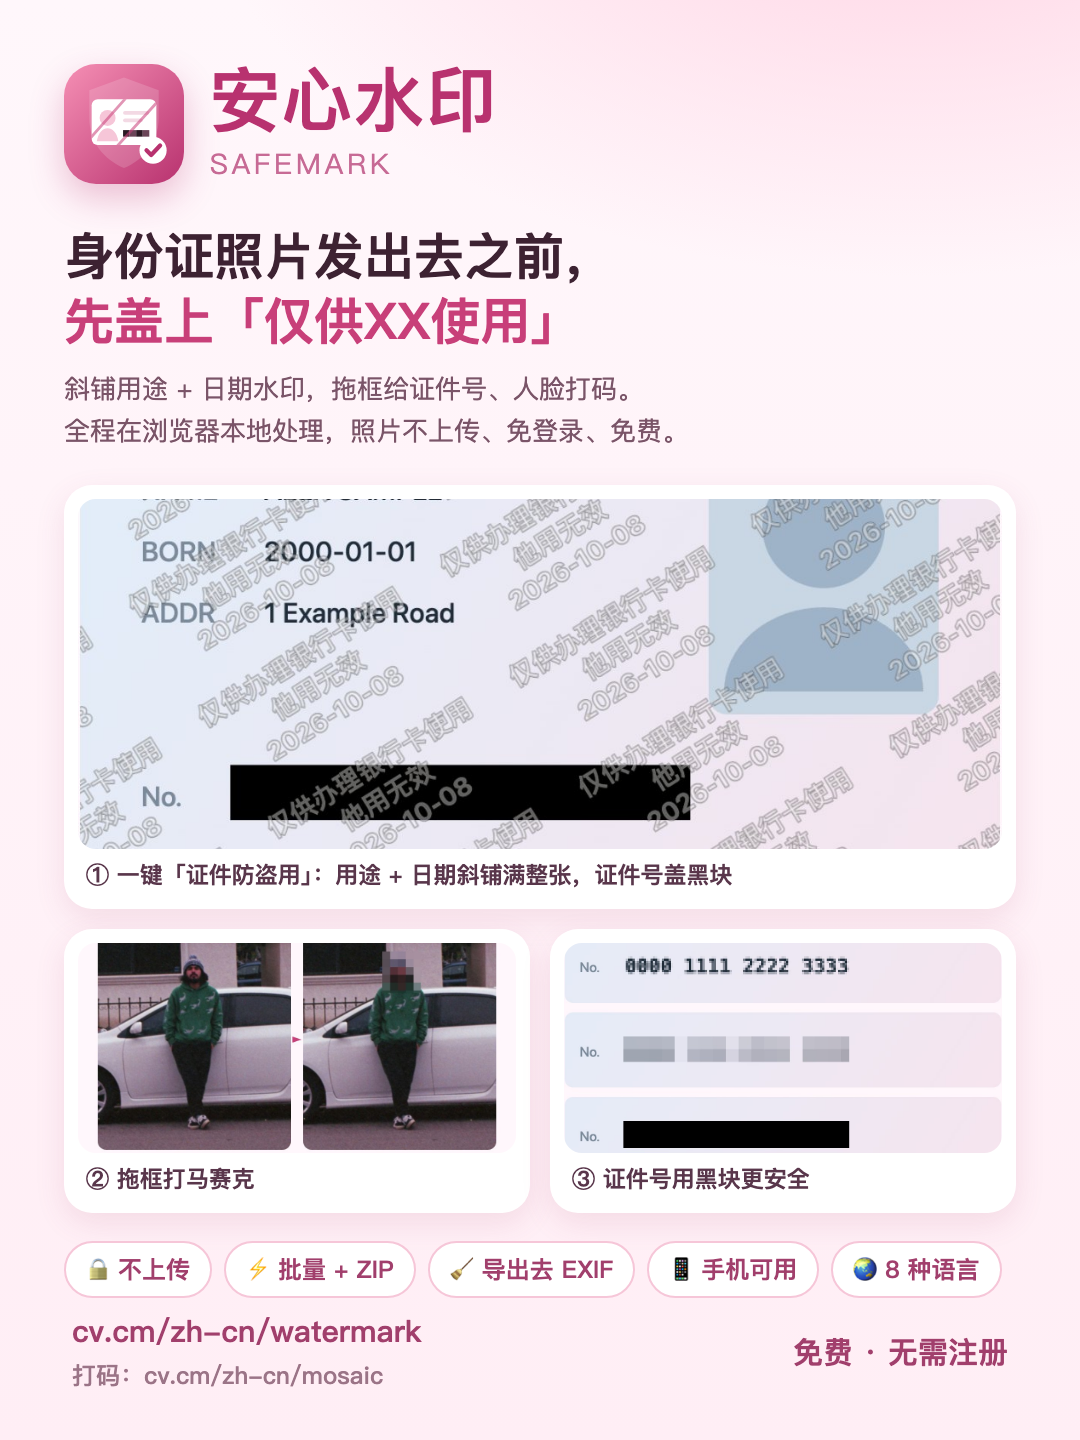
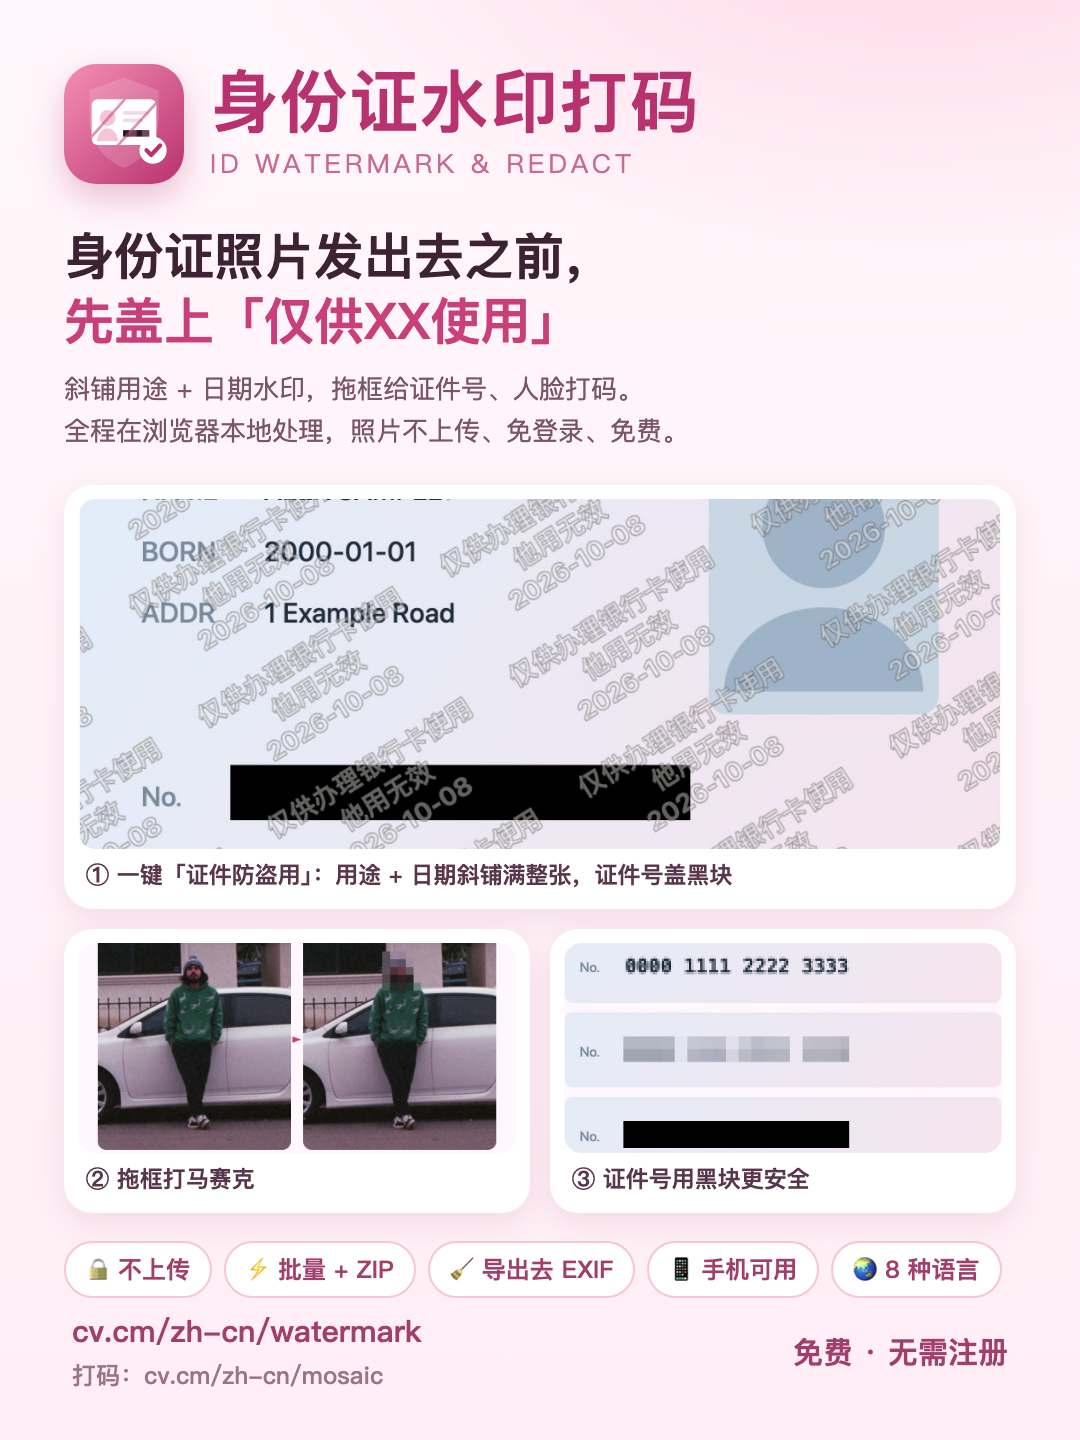
feat: rename to ID Watermark & Redact (身份证水印打码)

Changed region(s): [[0.1833, 0.0312, 0.6417, 0.125]]

diff --git a/docs/index.html b/docs/index.html
@@ -3,7 +3,7 @@
 <head>
 <meta charset="utf-8">
 <meta name="viewport" content="width=device-width, initial-scale=1">
-<title>SafeMark 安心水印 — ID copy watermark & photo mosaic, no upload</title>
+<title>身份证水印打码 · ID Watermark & Redact — ID copy watermark & photo mosaic, no upload</title>
 <meta name="description" content="Watermark ID copies with a tiled for-use-only line and date, pixelate faces or black out ID numbers — in the browser, nothing uploaded. 身份证加水印、图片打马赛克，本地处理不上传。">
 <link rel="icon" href="icon.svg" type="image/svg+xml">
 <link rel="canonical" href="https://cv.cm/en/watermark/">
@@ -21,7 +21,7 @@ h2{color:var(--pink);margin-top:36px}a{color:var(--pink)}
 </style>
 </head>
 <body><main>
-<header><img src="icon.svg" alt=""><div><h1>SafeMark · 安心水印</h1><div>ID copy watermark &amp; photo mosaic — on your device</div></div></header>
+<header><img src="icon.svg" alt=""><div><h1>ID Watermark &amp; Redact · 身份证水印打码</h1><div>ID copy watermark &amp; photo mosaic — on your device</div></div></header>
 <p class="lead">Tile “for [org] use only + date” across an ID copy, black out numbers, pixelate faces. Nothing is uploaded.<br>身份证加「仅供XX使用」水印，拖框打马赛克，本地处理不上传。</p>
 <div class="cta">
 <a href="https://cv.cm/en/watermark/">Watermark tool</a>
@@ -39,5 +39,5 @@ h2{color:var(--pink);margin-top:36px}a{color:var(--pink)}
 <li><a href="https://cv.cm/en/learn/mosaic-photo/">How to pixelate part of a photo</a> · <a href="https://cv.cm/zh-cn/learn/mosaic-photo/">怎么给图片打马赛克</a></li>
 <li><a href="https://cv.cm/en/learn/add-watermark/">How to add a watermark to a photo</a> · <a href="https://cv.cm/zh-cn/learn/add-watermark/">怎么给照片加水印</a></li>
 </ul>
-<p>Open-source engine: <a href="https://github.com/mantoufan/safemark">github.com/mantoufan/safemark</a> · More tools at <a href="https://cv.cm/">cv.cm</a></p>
+<p>Open-source engine: <a href="https://github.com/mantoufan/id-watermark">github.com/mantoufan/id-watermark</a> · More tools at <a href="https://cv.cm/">cv.cm</a></p>
 </main></body></html>

diff --git a/README.md b/README.md
@@ -1,6 +1,6 @@
-<p align="center"><img src="docs/icon.svg" width="96" alt="SafeMark icon"></p>
+<p align="center"><img src="docs/icon.svg" width="96" alt="ID Watermark & Redact icon"></p>
 
-<h1 align="center">SafeMark · 安心水印</h1>
+<h1 align="center">ID Watermark & Redact · 身份证水印打码</h1>
 
 <p align="center">
 Watermark ID copies and pixelate private details — entirely in the browser.<br>
@@ -35,10 +35,10 @@ A fine mosaic can leave digits readable. A coarse mosaic or a solid box cannot.
 
 ## Use the engine
 
-`src/safemark.ts` is a dependency-free TypeScript module for the browser.
+`src/id-watermark.ts` is a dependency-free TypeScript module for the browser.
 
 ```ts
-import { renderWatermark } from "./safemark";
+import { renderWatermark } from "./id-watermark";
 
 const img = await createImageBitmap(file);
 const canvas = renderWatermark(img, img.width, img.height, {
@@ -74,7 +74,7 @@ Exports: `renderWatermark`, `pixelate`, `redactionBox`, `mosaicCell`, `tilePitch
 
 ## 中文说明
 
-办银行卡、租房、入职经常要发身份证照片。**安心水印**让证件照离开设备前，先变成「只能用于这一件事」的副本：
+办银行卡、租房、入职经常要发身份证照片。**身份证水印打码**让证件照离开设备前，先变成「只能用于这一件事」的副本：
 
 1. 打开 [cv.cm/zh-cn/watermark](https://cv.cm/zh-cn/watermark/)，拖入证件照片（或点「用示例证件试试」）。
 2. 点「证件防盗用」，把 XX 改成对象和用途，例如「仅供办理XX银行卡使用」，保留日期。
@@ -87,7 +87,7 @@ Exports: `renderWatermark`, `pixelate`, `redactionBox`, `mosaicCell`, `tilePitch
 
 ## More browser tools
 
-SafeMark is part of [cv.cm](https://cv.cm/) — free on-device tools: [merge PDF](https://cv.cm/en/merge-pdf/), [compress PDF](https://cv.cm/en/compress-pdf/), [HEIC to JPG](https://cv.cm/en/convert/heic-to-jpg/), [remove EXIF](https://cv.cm/en/exif/), [crop](https://cv.cm/en/crop/), [resize](https://cv.cm/en/resize/), [QR code](https://cv.cm/en/qr/). Source: [mantoufan/cvcm](https://github.com/mantoufan/cvcm).
+ID Watermark & Redact is part of [cv.cm](https://cv.cm/) — free on-device tools: [merge PDF](https://cv.cm/en/merge-pdf/), [compress PDF](https://cv.cm/en/compress-pdf/), [HEIC to JPG](https://cv.cm/en/convert/heic-to-jpg/), [remove EXIF](https://cv.cm/en/exif/), [crop](https://cv.cm/en/crop/), [resize](https://cv.cm/en/resize/), [QR code](https://cv.cm/en/qr/). Source: [mantoufan/cvcm](https://github.com/mantoufan/cvcm).
 
 ## License
 
